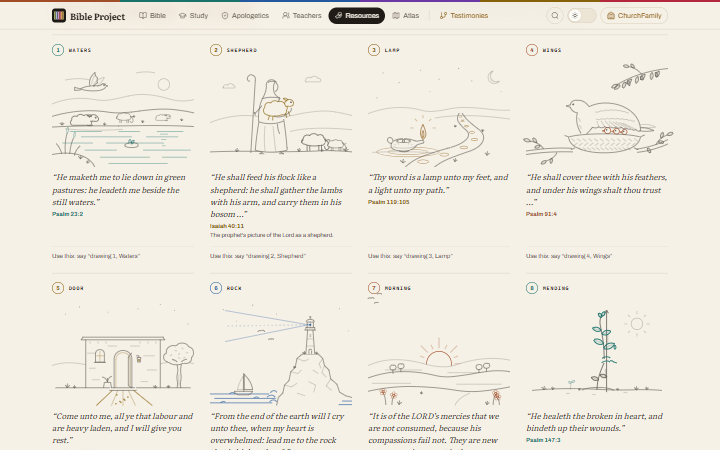
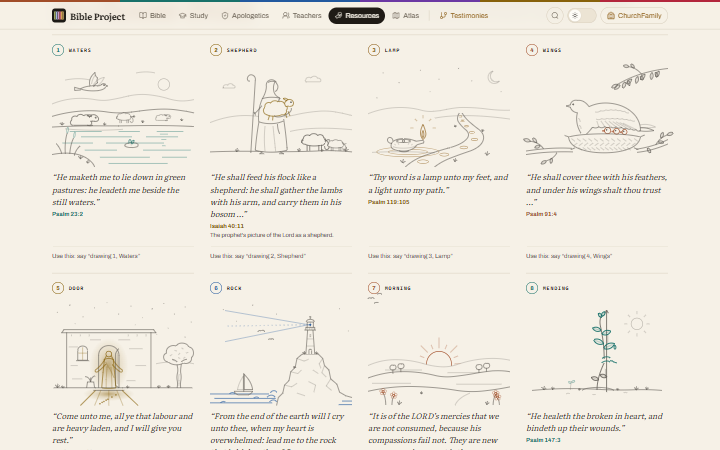
Design: Help for life drawing 5 (Door) - Jesus standing in the open doorway in soft light, a bigger house moved left, stars above (owner)

Changed region(s): [[0.0917, 0.7156, 0.2444, 0.9022]]

diff --git a/design/help-for-life-drawings/art.js b/design/help-for-life-drawings/art.js
@@ -115,27 +115,35 @@
         <path class="f" d="${inner.edge}"/><path class="f" d="${coverts.edge}"/><path d="M150 150C146 156 140 162 136 166"/></g>`);
     },
 
-    // 5 · The open door of Matthew 11:28: a house at dusk, its door standing open, light falling out across the step.
-    door: () => svg("Line drawing: a small stone house at dusk with its door standing open and light falling out across the step", `
-      ${stars([[30, 34], [62, 18, 1.2], [276, 26], [306, 56, .9], [244, 12], [126, 30, .8], [194, 22, .8]])}
-      <path class="f" d="M0 150C24 142 46 142 76 148M244 146C270 140 296 140 320 146"/>
-      <path d="M66 92H254"/><path d="M70 86H250"/><path d="M66 92L70 86M254 92L250 86"/>
-      <path class="f" d="M86 96v4M104 96v4M122 96v4M198 96v4M216 96v4M234 96v4"/>
-      <path d="M76 92V200"/><path d="M244 92V200"/>
-      <path class="f" d="M80 122h18M84 156h14M90 182h18M206 128h26M214 160h22M200 186h16M126 106h20M176 106h22"/>
-      <path d="M98 142V124C98 118 102 114 108 114C114 114 118 118 118 124V142Z"/><path class="ft lit" d="M108 117V140M100 128H116"/><path d="M95 143H121"/>
-      <path class="ft lit" d="M144 200V137C144 128 151 121 160 121C169 121 176 128 176 137V200"/>
-      <path d="M140 200V136C140 124 149 116 160 116C171 116 180 124 180 136V200"/>
-      <path d="M180 200L172 195V132C174 127 177 124 180 122"/><path class="f" d="M176 192V130"/>
-      <path d="M134 200H186"/><path d="M130 206H190"/>
-      <path d="M190 128H196V132"/><path d="M192 132H200L199 142H193Z"/><path class="t lit" d="M196 140C194.6 138.6 195 136.6 196 135C197 136.6 197.4 138.6 196 140Z"/>
-      <g class="spill"><path class="t" d="M136 206L100 240"/><path class="t" d="M184 206L226 240"/><path class="ft" d="M148 206L134 240M160 206V240M172 206L188 240"/></g>
-      ${range(7, (i) => `<circle class="mote" style="--i:${i}" cx="${144 + (i * 9) % 34}" cy="${236 - (i * 5) % 22}" r="1" fill="currentColor"/>`)}
-      <path d="M8 200H130M190 200H312"/>
-      <path d="M116 200L118 188H132L134 200"/><path d="M125 188C123 180 118 176 112 176M125 188C126 180 130 175 136 174M125 188V178"/>
+    // 5 · Come unto me (Matthew 11:28): Jesus standing in the open doorway of a house at night, arms open, warm light around
+    // him falling across the step. Drawn at the owner's wish (2026-10-08): a robed figure, no face; the light is the one focal point.
+    door: () => svg("Line drawing: Jesus standing in the open doorway of a small stone house at night, his arms open, warm light around him falling across the step", `
+      <defs><radialGradient id="door-glow"><stop offset="0" style="stop-color: var(--c); stop-opacity: .5"/><stop offset=".5" style="stop-color: var(--c); stop-opacity: .16"/><stop offset="1" style="stop-color: var(--c); stop-opacity: 0"/></radialGradient></defs>
+      ${stars([[12, 30], [40, 14, 1.2], [70, 40, .9], [96, 20], [124, 8, .8], [150, 34, 1.1], [178, 16], [204, 42, .8], [226, 22, 1.2], [252, 10], [276, 34, 1.1], [300, 18], [314, 52, .9], [262, 66, .8], [52, 56, .8], [188, 58, .7], [236, 80, .8], [300, 86, .9]])}
+      <path class="f" d="M234 146C262 140 292 140 320 146"/>
+      <path d="M22 76H234"/><path d="M27 69H229"/><path d="M22 76L27 69M234 76L229 69"/>
+      <path class="f" d="M44 80v4M64 80v4M84 80v4M172 80v4M192 80v4M212 80v4"/>
+      <path d="M33 76V200"/><path d="M223 76V200"/>
+      <path class="f" d="M38 108h20M42 150h16M46 180h22M174 112h30M188 150h24M168 184h20M86 92h24M150 92h26"/>
+      <path d="M58 138V116C58 110 63 106 69 106C75 106 80 110 80 116V138Z"/><path class="ft" d="M69 109V137M60 122H78"/><path d="M55 139H83"/>
+      <g class="glow-door"><ellipse cx="128" cy="150" rx="44" ry="62" fill="url(#door-glow)" stroke="none"/><ellipse cx="128" cy="214" rx="58" ry="16" fill="url(#door-glow)" stroke="none"/></g>
+      <path d="M105 200V128C105 114 115 105 128 105C141 105 151 114 151 128V200"/>
+      <path d="M151 200L143 195V124C145 118 148 114 151 112"/><path class="f" d="M147 191V122"/>
+      <g class="t">
+        <circle cx="128" cy="124" r="6.4"/>
+        <path d="M122.6 127.6C121 131 119.6 134 117.6 137M133.4 127.6C135 131 136.4 134 138.4 137"/><path d="M117.6 137C121 134.6 124 134 128 134C132 134 135 134.6 138.4 137"/>
+        <path d="M118 137C116 156 114 178 112 200"/><path d="M138 137C140 156 142 178 144 200"/><path d="M112 200C120 202 136 202 144 200"/>
+        <path class="ft" d="M121 142C126 152 134 162 140 178M124 152C123 170 122 186 122 200M133 154C134 170 135 186 135 200"/>
+        <path d="M118 138C112 147 106 154 99 159"/><path d="M121 147C116 153 111 158 104 163"/><path d="M99 159C96.5 160.5 97 164.5 100.5 164.6C102 164.5 103 163.8 104 163"/>
+        <path d="M138 138C144 147 150 154 157 159"/><path d="M135 147C140 153 145 158 152 163"/><path d="M157 159C159.5 160.5 159 164.5 155.5 164.6C154 164.5 153 163.8 152 163"/></g>
+      <path d="M98 200H158"/><path d="M94 206H162"/>
+      <g class="spill"><path class="t" d="M98 206L64 240"/><path class="t" d="M158 206L194 240"/><path class="ft" d="M110 206L96 240M128 206V240M146 206L160 240"/></g>
+      ${range(7, (i) => `<circle class="mote" style="--i:${i}" cx="${108 + (i * 9) % 40}" cy="${236 - (i * 5) % 22}" r="1" fill="currentColor"/>`)}
+      <path d="M4 200H98M158 200H316"/>
+      <path d="M78 200L80 187H94L96 200"/><path d="M87 187C85 179 80 175 74 175M87 187C88 179 92 174 98 173M87 187V177"/>
       <path d="M282 200C285 188 279 178 283 166C285 158 281 150 282 142"/><path d="M290 200C288 188 293 178 290 166C289 158 292 150 291 142"/><path class="f" d="M286 196C287 186 284 176 287 168"/>
       <g class="crown"><path class="pf" d="M262 142C250 140 248 126 258 122C256 110 268 102 280 106C286 96 304 98 308 108C320 110 322 126 314 132C316 142 304 148 296 144C288 150 272 150 262 142Z"/><path d="M262 142C250 140 248 126 258 122C256 110 268 102 280 106C286 96 304 98 308 108C320 110 322 126 314 132C316 142 304 148 296 144C288 150 272 150 262 142Z"/><path class="f" d="M266 128l5-3M276 116l5 1M292 110l4 3M302 122l5-2M284 132l5 2M296 134l4-3M272 138l4 1M288 122l-3 4"/><path d="M282 142C278 138 274 136 270 136M291 142C296 138 300 136 304 136"/></g>
-      ${tuft(34, 200)}${tuft(50, 201, .7)}${tuft(232, 201, .8)}${tuft(262, 200, .7)}`),
+      ${tuft(12, 200)}${tuft(24, 201, .7)}${tuft(240, 201, .8)}${tuft(262, 200, .7)}${tuft(170, 201, .7)}`),
 
     // 6 · The rock higher than I (Psalm 61:2): a lighthouse on a high rock above the sea, its beam sweeping; a boat coming in.
     rock: () => svg("Line drawing: a lighthouse on a high rock above the sea, its beam sweeping slowly, a small boat sailing in", `

diff --git a/design/help-for-life-drawings/drawings.js b/design/help-for-life-drawings/drawings.js
@@ -6,7 +6,7 @@
     { key: "shepherd", name: "Shepherd", tone: "epistles", verse: "He shall feed his flock like a shepherd: he shall gather the lambs with his arm, and carry them in his bosom …", ref: "Isaiah 40:11", note: "The prophet's picture of the Lord as a shepherd." },
     { key: "lamp", name: "Lamp", tone: "accent", verse: "Thy word is a lamp unto my feet, and a light unto my path.", ref: "Psalm 119:105" },
     { key: "wings", name: "Wings", tone: "history", verse: "He shall cover thee with his feathers, and under his wings shalt thou trust …", ref: "Psalm 91:4" },
-    { key: "door", name: "Door", tone: "epistles", verse: "Come unto me, all ye that labour and are heavy laden, and I will give you rest.", ref: "Matthew 11:28" },
+    { key: "door", name: "Door", tone: "epistles", verse: "Come unto me, all ye that labour and are heavy laden, and I will give you rest.", ref: "Matthew 11:28", note: "Jesus at the open door, as the verse invites." },
     { key: "rock", name: "Rock", tone: "prophets", verse: "From the end of the earth will I cry unto thee, when my heart is overwhelmed: lead me to the rock that is higher than I.", ref: "Psalm 61:2" },
     { key: "morning", name: "Morning", tone: "history", verse: "It is of the LORD’s mercies that we are not consumed, because his compassions fail not. They are new every morning: great is thy faithfulness.", ref: "Lamentations 3:22–23" },
     { key: "sprout", name: "Mending", tone: "poetry", verse: "He healeth the broken in heart, and bindeth up their wounds.", ref: "Psalm 147:3" },
@@ -47,6 +47,6 @@
     <ol class="grid" start="9">${ITEMS.slice(8, 16).map((it, i) => cell(it, i + 8)).join("")}</ol>
     <p class="grid-head"><span>17–24</span>And eight more</p>
     <ol class="grid" start="17">${ITEMS.slice(16).map((it, i) => cell(it, i + 16)).join("")}</ol>
-    <p class="foot-note">Every verse is the King James text, word for word. Where a verse goes on, it is shortened and marked …. The drawings are this site's own, drawn as lines; no person in them has a face, and none is a picture of God.</p>
+    <p class="foot-note">Every verse is the King James text, word for word. Where a verse goes on, it is shortened and marked …. The drawings are this site's own, drawn as lines. No person in them has a face; drawing 5 shows Jesus at the door, as Matthew 11:28 invites.</p>
   </div>`;
 })();

diff --git a/design/help-for-life-drawings/drawings.css b/design/help-for-life-drawings/drawings.css
@@ -80,8 +80,10 @@
 @keyframes shelter { from { transform: rotate(0deg); } to { transform: rotate(-3deg); } }
 .draw-wings .chicks { animation: breathe 2.6s ease-in-out infinite alternate; }
 
-/* 5 · Door: the light falling out breathes, small motes rise slowly in it, the tree stirs. */
-.draw-door .spill, .draw-door .lit { animation: soft 7s ease-in-out infinite alternate; }
+/* 5 · Door: the light around Jesus in the doorway breathes slowly, its spill on the step with it; motes rise in it. */
+.draw-door .glow-door { transform-box: fill-box; transform-origin: 50% 40%; animation: door-glow 7s ease-in-out infinite alternate; }
+@keyframes door-glow { from { transform: scale(.94); opacity: .6; } to { transform: scale(1.04); opacity: 1; } }
+.draw-door .spill { animation: soft 7s ease-in-out infinite alternate; }
 .draw-door .mote { opacity: 0; color: var(--c); animation: mote 9s linear infinite; animation-delay: calc(var(--i) * -1.3s); }
 @keyframes mote { 0% { transform: translateY(0); opacity: 0; } 20% { opacity: .8; } 80% { opacity: .5; } 100% { transform: translateY(-46px); opacity: 0; } }
 
